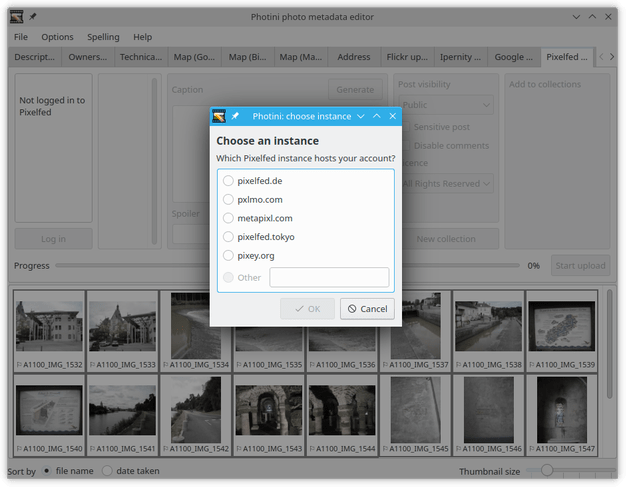
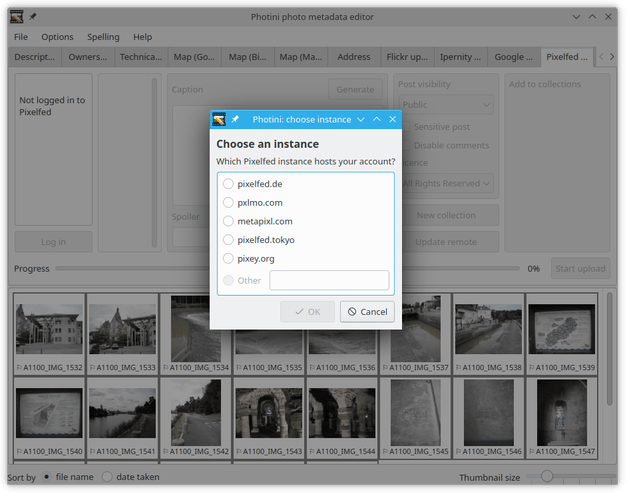
Updated Pixelfed uploader documentation

diff --git a/src/doc/manual/pixelfed.rst b/src/doc/manual/pixelfed.rst
@@ -16,17 +16,16 @@ See :ref:`installation <installation-optional>` for more detail.
 Initially most of the Pixelfed uploader tab is disabled.
 It's only usable after you've authorised Photini to access your Pixelfed account by clicking the ``Log in`` button.
 
-.. image:: ../images/screenshot_251.png
+.. image:: ../images/screenshot_252.png
 
 The first time you click ``Log in`` Photini asks you to choose a Pixelfed "instance" (or server) where you have an account.
 Photini already knows a few popular instances, but you can choose another by putting its domain name in the ``other`` box.
 
-.. image:: ../images/screenshot_252.png
+.. image:: ../images/screenshot_253.png
 
 After choosing an instance Photini opens a page in your web browser where you can log in to your Pixelfed account and then authorise Photini to access it.
 
-.. image:: ../images/screenshot_253.png
-
+.. image:: ../images/screenshot_254.png
 
 If the authorisation is successful Photini displays your Pixelfed user name and profile picture.
 You should not need to redo this authorisation process unless you click the ``Log out`` button.
@@ -34,7 +33,7 @@ You should not need to redo this authorisation process unless you click the ``Lo
 After logging in most of the Pixelfed uploader interface is enabled.
 However some features remain disabled if they are not available with the software version running on the chosen instance.
 
-.. image:: ../images/screenshot_254.png
+.. image:: ../images/screenshot_255.png
 
 When you select some pictures to upload they are shown in the column to the right of your user details.
 The number of pictures you can upload in one go depends on the instance.
@@ -43,28 +42,39 @@ Pixelfed instances usually allow twelve, but Mastodon instances only allow four.
 The pictures are uploaded, and displayed on Pixelfed, in the order you selected them.
 Using the ``Ctrl`` key while clicking in the image selector area allows you to choose them one at a time.
 
-.. image:: ../images/screenshot_255.png
+.. image:: ../images/screenshot_256.png
 
 The ``Generate`` button creates a caption for the uploaded pictures based on their title, headline, description, and keywords metadata.
 
-.. image:: ../images/screenshot_256.png
+.. image:: ../images/screenshot_257.png
 
 You will almost certainly want to edit the generated text to make a good caption.
-
-.. image:: ../images/screenshot_257.png
 
 If you want to hide your pictures from users until they choose to see them (e.g. if the pictures are "not suitable for work") you can check ``Sensitive post`` and optionally write some text in the ``Spoiler`` box.
 You can add the post to up to three of your "collections" by checking their tick-boxes.
 
+.. image:: ../images/screenshot_258.png
+
 Clicking the ``Start upload`` button uploads each picture and then posts a Pixelfed "status" with your pictures and caption.
 
-.. image:: ../images/screenshot_258.png
+.. image:: ../images/screenshot_259.png
+
+If your Pixelfed account settings have ``require media descriptions`` set then Photini will warn you if the picture you are uploading does not have "alt text" set.
+(See :doc:`descriptive_metadata` for more about alt text.)
+You can abort the upload and edit your photograph's alt text, or you can carry on and upload without alt text.
+
+If you add alt text later on you can use the ``Update remote`` button to copy the updated alt text to a previously uploaded picture.
+This is not available on Mastodon instances, and your updated alt text might not propagate to all federated instances if they have already cached your picture.
+
+.. image:: ../images/screenshot_260.png
 
 Pixelfed instances have maximum allowed image sizes, both pixel count and bytes in the file.
 If your image is too large, and is in a format Photini can process, Photini will offer to resize it for you.
 For best picture quality Photini will use Pillow_ if it is installed.
 
-.. image:: ../images/screenshot_259.png
+.. image:: ../images/screenshot_261.png
+
+To save having to answer yes for every picture you upload the Photini settings dialog includes an option to resize pictures without asking. 
 
 
 .. _Mastodon: https://joinmastodon.org/
